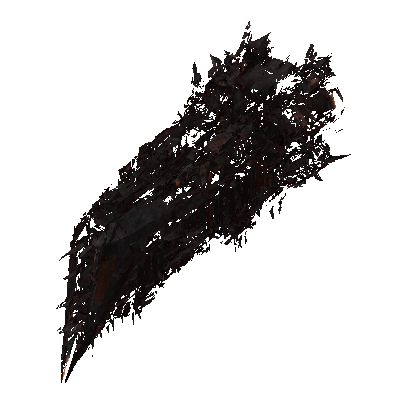
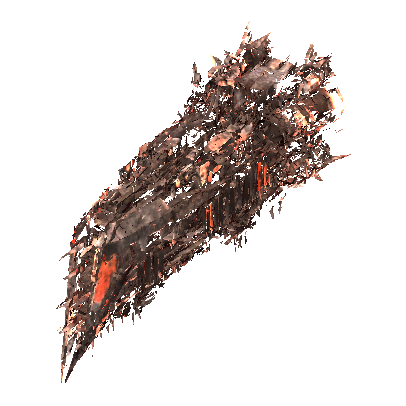
Brighten the Pygmaei ships: a base tint on their textured surfaces
Their textures are authored very dark, so under the battle lighting only the engine
glow read. UnitAssetBuild now gives Pygmaei units a 2.2x base tint; portraits re-rendered.

Changed region(s): [[0.1478, 0.0591, 0.8571, 0.9458]]

diff --git a/Assets/RR/Editor/UnitAssetBuild.cs b/Assets/RR/Editor/UnitAssetBuild.cs
@@ -115,7 +115,7 @@ namespace RR.EditorTools
     string matPath=dir.Replace('\\','/')+"/Surface.mat";
     var mat=AssetDatabase.LoadAssetAtPath<Material>(matPath);
     if(mat==null){mat=new Material(Shader.Find("RR/UnitSurface"));AssetDatabase.CreateAsset(mat,matPath);}
-    mat.SetTexture("_BaseMap",AssetDatabase.LoadAssetAtPath<Texture2D>(dir.Replace('\\','/')+"/albedo.png"));mat.SetColor("_Energy",visual.Energy);mat.SetFloat("_Bio",bio?1:0);EditorUtility.SetDirty(mat);
+    mat.SetTexture("_BaseMap",AssetDatabase.LoadAssetAtPath<Texture2D>(dir.Replace('\\','/')+"/albedo.png"));mat.SetColor("_Energy",visual.Energy);mat.SetFloat("_Bio",bio?1:0);mat.SetColor("_BaseTint",id.StartsWith("pygmaei")?new Color(2.3f,2.15f,2.05f,1):Color.white);EditorUtility.SetDirty(mat);   // Pygmaei textures are authored very dark
     mat.SetTexture("_NormalMap",AssetDatabase.LoadAssetAtPath<Texture2D>(dir.Replace('\\','/')+"/normal.png"));
     mat.SetTexture("_MaskMap",AssetDatabase.LoadAssetAtPath<Texture2D>(dir.Replace('\\','/')+"/orm.png"));
     var rs=go.GetComponentsInChildren<SkinnedMeshRenderer>();
